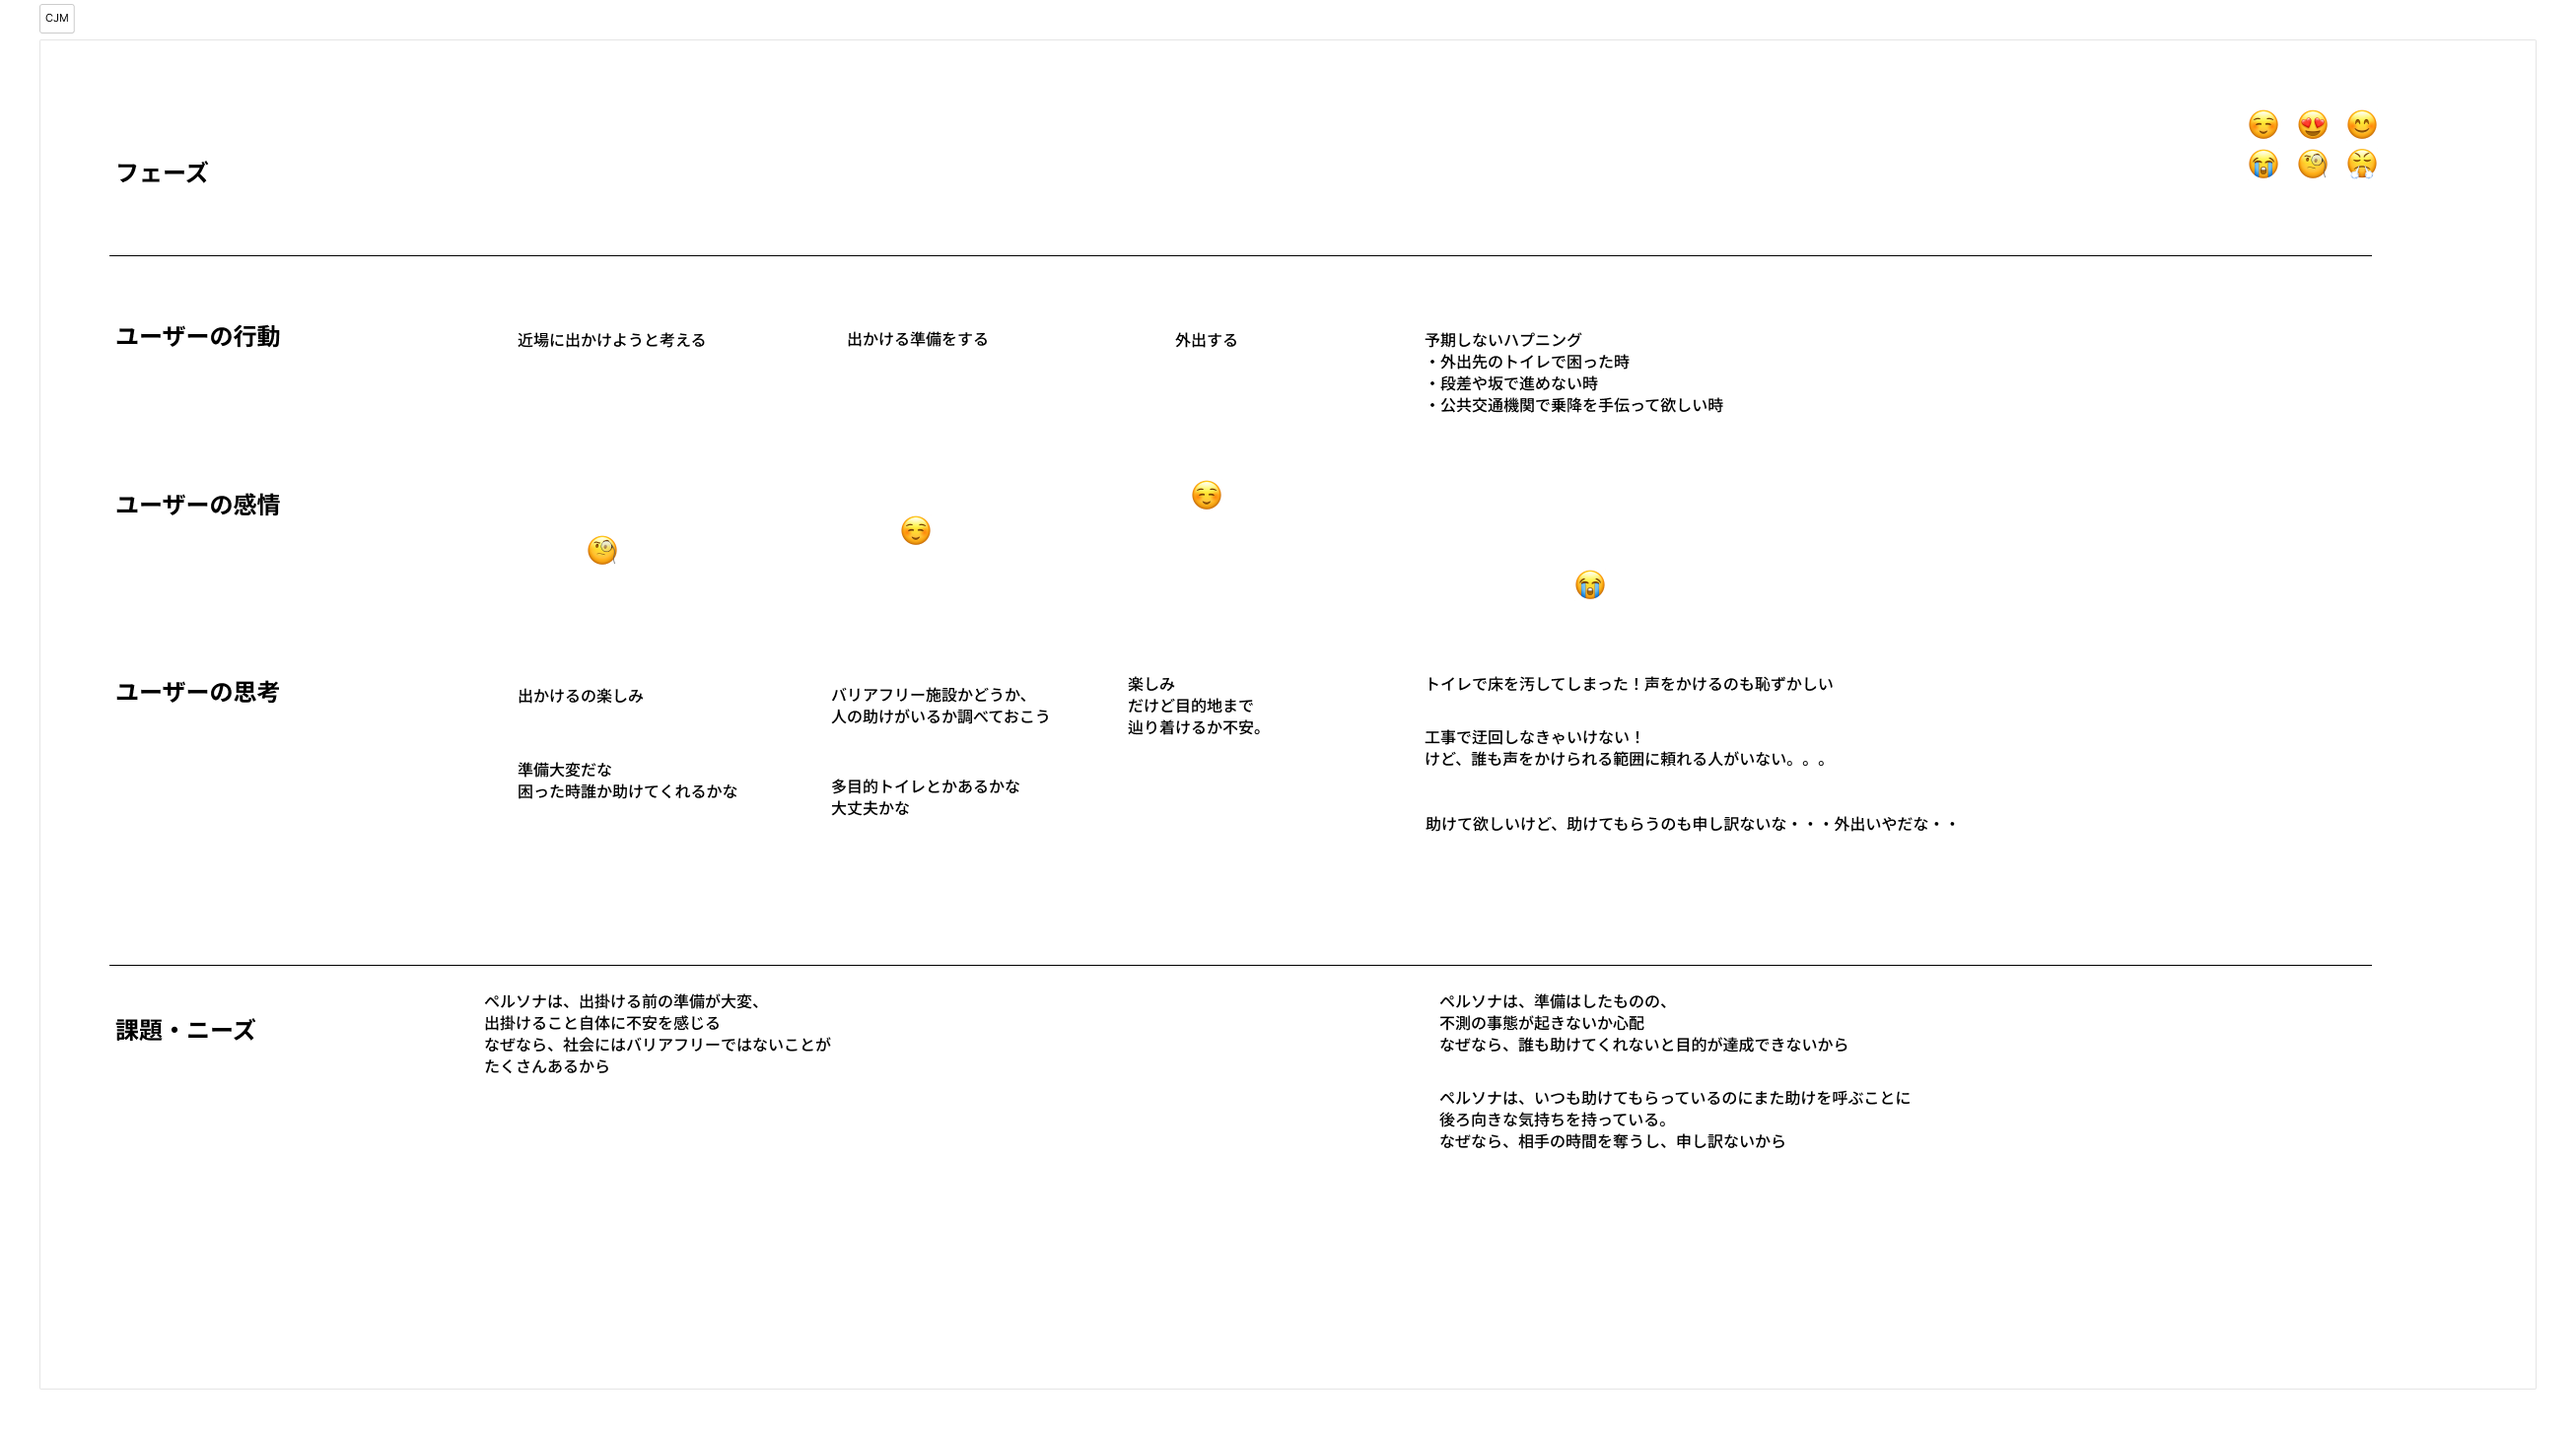
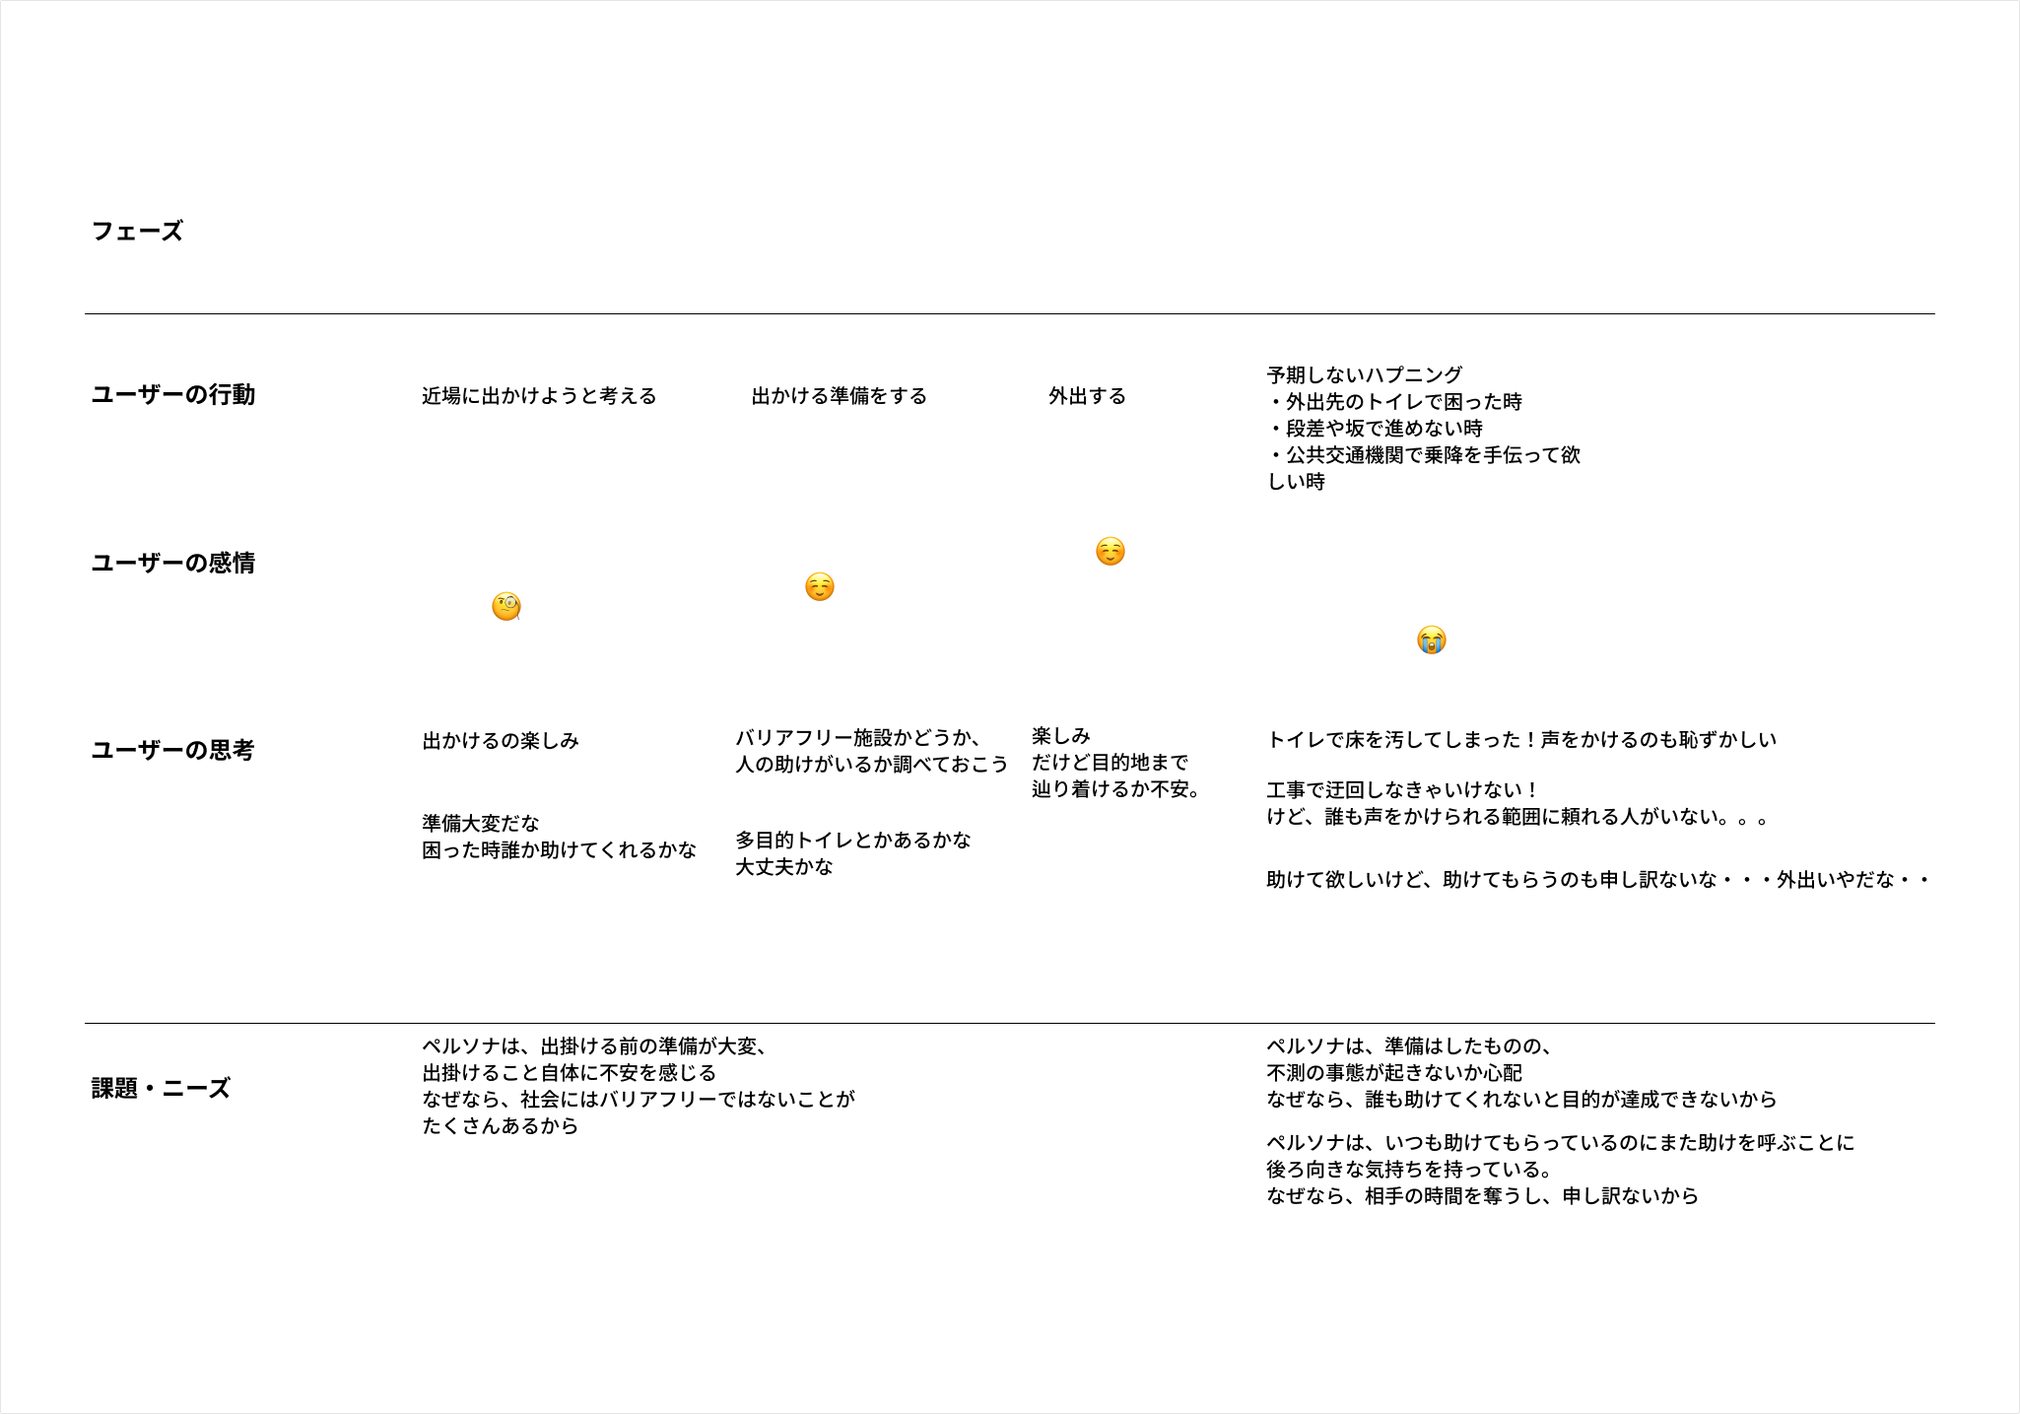
wheelmark update

diff --git a/index.html b/index.html
@@ -503,10 +503,42 @@ header{position:sticky;top:0;z-index:200;background:rgba(255,255,255,0.97);backd
     <div class="detail-meta-bar">
       <div class="dmeta"><div class="dmeta-key">担当領域</div><div class="dmeta-val">インタビュー設計・分析・UIビジュアルデザイン</div></div>
       <div class="dmeta"><div class="dmeta-key">形式</div><div class="dmeta-val">チーム制作（スクール課題）</div></div>
-      <div class="dmeta"><div class="dmeta-key">ツール</div><div class="dmeta-val">Figma / FigJam</div></div>
+      <div class="dmeta"><div class="dmeta-key">制作期間</div><div class="dmeta-val">3ヶ月</div></div>
+      <div class="dmeta"><div class="dmeta-key">ツール</div><div class="dmeta-val">Figma / FigJam / Miro</div></div>
     </div>
   </div>
   <div class="detail-body">
+
+    <!-- カバー画像 -->
+    <div class="img-full fade-up" style="margin-bottom:48px">
+      <img src="https://raw.githubusercontent.com/scent428/portfolio/main/assets/images/works/ampy/cover/cover_ampy.png" alt="ampy cover">
+    </div>
+
+    <!-- サービス概要 -->
+    <div class="ds fade-up">
+      <div class="ds-label"><span>サービス概要</span></div>
+      <div class="ds-body">
+        <p>災害や緊急時に家族や身近な人と安否を確認し合うためのサービス。</p>
+      </div>
+    </div>
+
+    <!-- 制作背景 -->
+    <div class="ds fade-up">
+      <div class="ds-label"><span>制作背景</span></div>
+      <div class="ds-body">
+        <p>東日本大震災の際、宮城に住む祖父と1週間連絡が取れず、不安な時間を過ごした経験があります。</p>
+        <p>その体験から、緊急時でも大切な人の安否をすぐに確認できる仕組みが必要だと感じ、このサービスを企画しました。</p>
+      </div>
+    </div>
+
+    <!-- 設計上の課題 -->
+    <div class="ds fade-up">
+      <div class="ds-label"><span>設計上の課題</span></div>
+      <div class="ds-body">
+        <p>安否確認は幅広い世代に関わる一方で、平常時には必要性が意識されにくいテーマです。</p>
+        <p>その為、潜在的な不安をどう捉えるか、また緊急時でも迷わず使える導線や情報設計をどう実現するかが大きな課題でした。</p>
+      </div>
+    </div>
 
     <!-- 完成プロトタイプ -->
     <div class="ds fade-up">
@@ -818,10 +850,42 @@ header{position:sticky;top:0;z-index:200;background:rgba(255,255,255,0.97);backd
     <div class="detail-meta-bar">
       <div class="dmeta"><div class="dmeta-key">担当領域</div><div class="dmeta-val">UXリサーチ・分析・コンセプト設計・UI設計</div></div>
       <div class="dmeta"><div class="dmeta-key">形式</div><div class="dmeta-val">個人制作</div></div>
+      <div class="dmeta"><div class="dmeta-key">制作期間</div><div class="dmeta-val">1ヶ月</div></div>
       <div class="dmeta"><div class="dmeta-key">ツール</div><div class="dmeta-val">Figma / FigJam / Miro</div></div>
     </div>
   </div>
   <div class="detail-body">
+
+    <!-- カバー画像 -->
+    <div class="img-full fade-up" style="margin-bottom:48px">
+      <img src="https://raw.githubusercontent.com/scent428/portfolio/main/assets/images/works/wheelmark/cover/cover_wheelmark.png" alt="wheelmark cover">
+    </div>
+
+    <!-- サービス概要 -->
+    <div class="ds fade-up">
+      <div class="ds-label"><span>サービス概要</span></div>
+      <div class="ds-body">
+        <p>車椅子ユーザーが安心して外出できるよう支援する経路検索サービス。</p>
+      </div>
+    </div>
+
+    <!-- 制作背景 -->
+    <div class="ds fade-up">
+      <div class="ds-label"><span>制作背景</span></div>
+      <div class="ds-body">
+        <p>当初は、車椅子ユーザー向けのSOSアプリを想定していました。</p>
+        <p>しかし、リサーチを進める中で、緊急時の支援だけでなく、日常的な外出そのものに不安や負担があることに着目し、サービスの方向性を「外出支援」に見直しました。</p>
+      </div>
+    </div>
+
+    <!-- 設計上の課題 -->
+    <div class="ds fade-up">
+      <div class="ds-label"><span>設計上の課題</span></div>
+      <div class="ds-body">
+        <p>車椅子ユーザーの声を直接収集することが難しかったため、競合アプリやSNSの投稿を分析し、実際の困りごとやニーズを整理しました。</p>
+        <p>限られた情報の中でも、ユーザーが外出時にどのような不安を感じ、どのような情報があれば安心して移動できるかを考えながら設計を進めました。</p>
+      </div>
+    </div>
 
     <div class="ds fade-up">
       <div class="ds-label"><span>完成プロトタイプ</span></div>
@@ -864,11 +928,36 @@ header{position:sticky;top:0;z-index:200;background:rgba(255,255,255,0.97);backd
     <div class="ds fade-up">
       <div class="ds-label"><span>分析 — ジャーニーマップ & 問題定義</span></div>
       <div class="img-full">
-        <img src="https://raw.githubusercontent.com/scent428/portfolio/main/assets/images/works/wheelmark/process/CJM.png" alt="カスタマージャーニーマップ">
+        <img src="https://raw.githubusercontent.com/scent428/portfolio/main/assets/images/works/wheelmark/process/CJM.png" alt="カスタマージャーニーマップ" onclick="openLightbox(this.src, 'カスタマージャーニーマップ', true)" style="cursor:zoom-in">
       </div>
       <div class="insight-box" style="margin-top:20px">
         <div class="insight-box-title">問題定義</div>
         <div class="insight-box-body">情報不足が問題なのではなく、複数の情報を自分の身体条件に照らして解釈しなければならないことが、移動前後の不安を生んでいた。</div>
+      </div>
+    </div>
+
+    <div class="ds fade-up">
+      <div class="ds-label"><span>課題定義 — メインペイン</span></div>
+      <div class="ds-body">
+        <p>ジャーニーマップから浮かび上がったペインを整理し、解決すべき中心課題を特定しました。</p>
+      </div>
+      <div class="img-full">
+        <img src="https://raw.githubusercontent.com/scent428/portfolio/main/assets/images/works/wheelmark/process/MainPain.png" alt="メインペイン" onclick="openLightbox(this.src, 'メインペイン', true)" style="cursor:zoom-in">
+      </div>
+      <div class="callout dark" style="margin-top:20px">
+        <div class="callout-title">コアインサイト</div>
+        <p>「情報はある。でも、自分が行けるかは分からない」——既存サービスの多くは情報提供に注力しているが、"判断そのもの"を軽くする設計にはなっていない。</p>
+        <p>『何があるか』より『行けるかどうか』をシステムが補助し、認知負荷を最小化することが鍵。</p>
+      </div>
+    </div>
+
+    <div class="ds fade-up">
+      <div class="ds-label"><span>課題定義 — How Might We</span></div>
+      <div class="ds-body">
+        <p>メインペインをHMWの問いに変換し、設計の方向性を定めました。</p>
+      </div>
+      <div class="img-full">
+        <img src="https://raw.githubusercontent.com/scent428/portfolio/main/assets/images/works/wheelmark/process/HMW.png" alt="How Might We" onclick="openLightbox(this.src, 'How Might We', true)" style="cursor:zoom-in">
       </div>
     </div>
 
@@ -887,6 +976,37 @@ header{position:sticky;top:0;z-index:200;background:rgba(255,255,255,0.97);backd
         <div class="img-block" style="margin:0">
           <img src="https://raw.githubusercontent.com/scent428/portfolio/main/assets/images/works/wheelmark/wireframe/routeInformation.png" alt="経路詳細">
           <div class="img-cap">経路詳細</div>
+        </div>
+      </div>
+    </div>
+
+    <div class="ds fade-up">
+      <div class="ds-label"><span>ブランドパーソナリティ</span></div>
+      <div class="pull-quote dark">
+        <div class="pull-quote-text">静かなナビゲーター。判断を渡す、決断は奪わない。</div>
+      </div>
+      <div class="ds-body">
+        <p>wheelmarkは、ユーザーの移動判断を"補助"する立場です。</p>
+        <p>励ましたり断言したりするのではなく、事実と実績を淡々と提示し、不確実性を隠さず、ユーザー自身が判断できる状態を作ることをコアスタンスとしています。</p>
+      </div>
+      <div class="card-2" style="margin-top:20px">
+        <div class="mini-card" style="border-color:var(--wheel);background:var(--wheel-bg)">
+          <div class="mini-card-head" style="color:var(--wheel)">✓ 使う表現</div>
+          <div class="mini-card-body">
+            〜そうです / 〜の可能性があります<br>
+            〜と考えられます / 〜が確認されています<br>
+            〜の実績があります<br><br>
+            <span style="color:var(--ink2)">例：「このルートは、同条件の通過実績があります」「一部、未評価の区間があります」</span>
+          </div>
+        </div>
+        <div class="mini-card">
+          <div class="mini-card-head" style="color:var(--muted)">✗ 使わない表現</div>
+          <div class="mini-card-body">
+            大丈夫です / 安心してください<br>
+            きっと〜 / 心配いりません<br>
+            簡単です / ぜひ〜しましょう<br><br>
+            <span style="color:var(--muted)">例：「安心して行けます！」「問題ありません」</span>
+          </div>
         </div>
       </div>
     </div>
@@ -1017,10 +1137,42 @@ header{position:sticky;top:0;z-index:200;background:rgba(255,255,255,0.97);backd
     <div class="detail-meta-bar">
       <div class="dmeta"><div class="dmeta-key">担当領域</div><div class="dmeta-val">UXリサーチ・インタビュー分析・コンセプト設計・UIデザイン</div></div>
       <div class="dmeta"><div class="dmeta-key">形式</div><div class="dmeta-val">個人制作</div></div>
-      <div class="dmeta"><div class="dmeta-key">ツール</div><div class="dmeta-val">Figma / FigJam</div></div>
+      <div class="dmeta"><div class="dmeta-key">制作期間</div><div class="dmeta-val">1ヶ月</div></div>
+      <div class="dmeta"><div class="dmeta-key">ツール</div><div class="dmeta-val">Figma / FigJam / Miro</div></div>
     </div>
   </div>
   <div class="detail-body">
+
+    <!-- カバー画像 -->
+    <div class="img-full fade-up" style="margin-bottom:48px">
+      <img src="https://raw.githubusercontent.com/scent428/portfolio/main/assets/images/works/react/cover/react_cover.png" alt="Re:ACT cover">
+    </div>
+
+    <!-- サービス概要 -->
+    <div class="ds fade-up">
+      <div class="ds-label"><span>サービス概要</span></div>
+      <div class="ds-body">
+        <p>舞台やミュージカルを観劇する人が、体験を記録し、あとから振り返れるようにするサービス。</p>
+      </div>
+    </div>
+
+    <!-- 制作背景 -->
+    <div class="ds fade-up">
+      <div class="ds-label"><span>制作背景</span></div>
+      <div class="ds-body">
+        <p>観劇後の感想や印象は時間が経つと薄れてしまう一方で、次の予約時には「以前どの作品をどう感じたか」を振り返りたくなることがあります。</p>
+        <p>私自身の体験から、記録したい気持ちはあっても、入力の手間によって継続しづらいという課題に着目し、このサービスを企画しました。</p>
+      </div>
+    </div>
+
+    <!-- 設計上の課題 -->
+    <div class="ds fade-up">
+      <div class="ds-label"><span>設計上の課題</span></div>
+      <div class="ds-body">
+        <p>このサービスは緊急性や必須性が高いものではないため、継続利用してもらうには、入力負荷を下げることが重要だと考えました。</p>
+        <p>そのため、記録のしやすさと振り返りやすさの両立を意識し、無理なく使い続けられる導線や情報設計を検討しました。</p>
+      </div>
+    </div>
 
     <!-- 制作プロセス -->
     <div class="ds fade-up">
